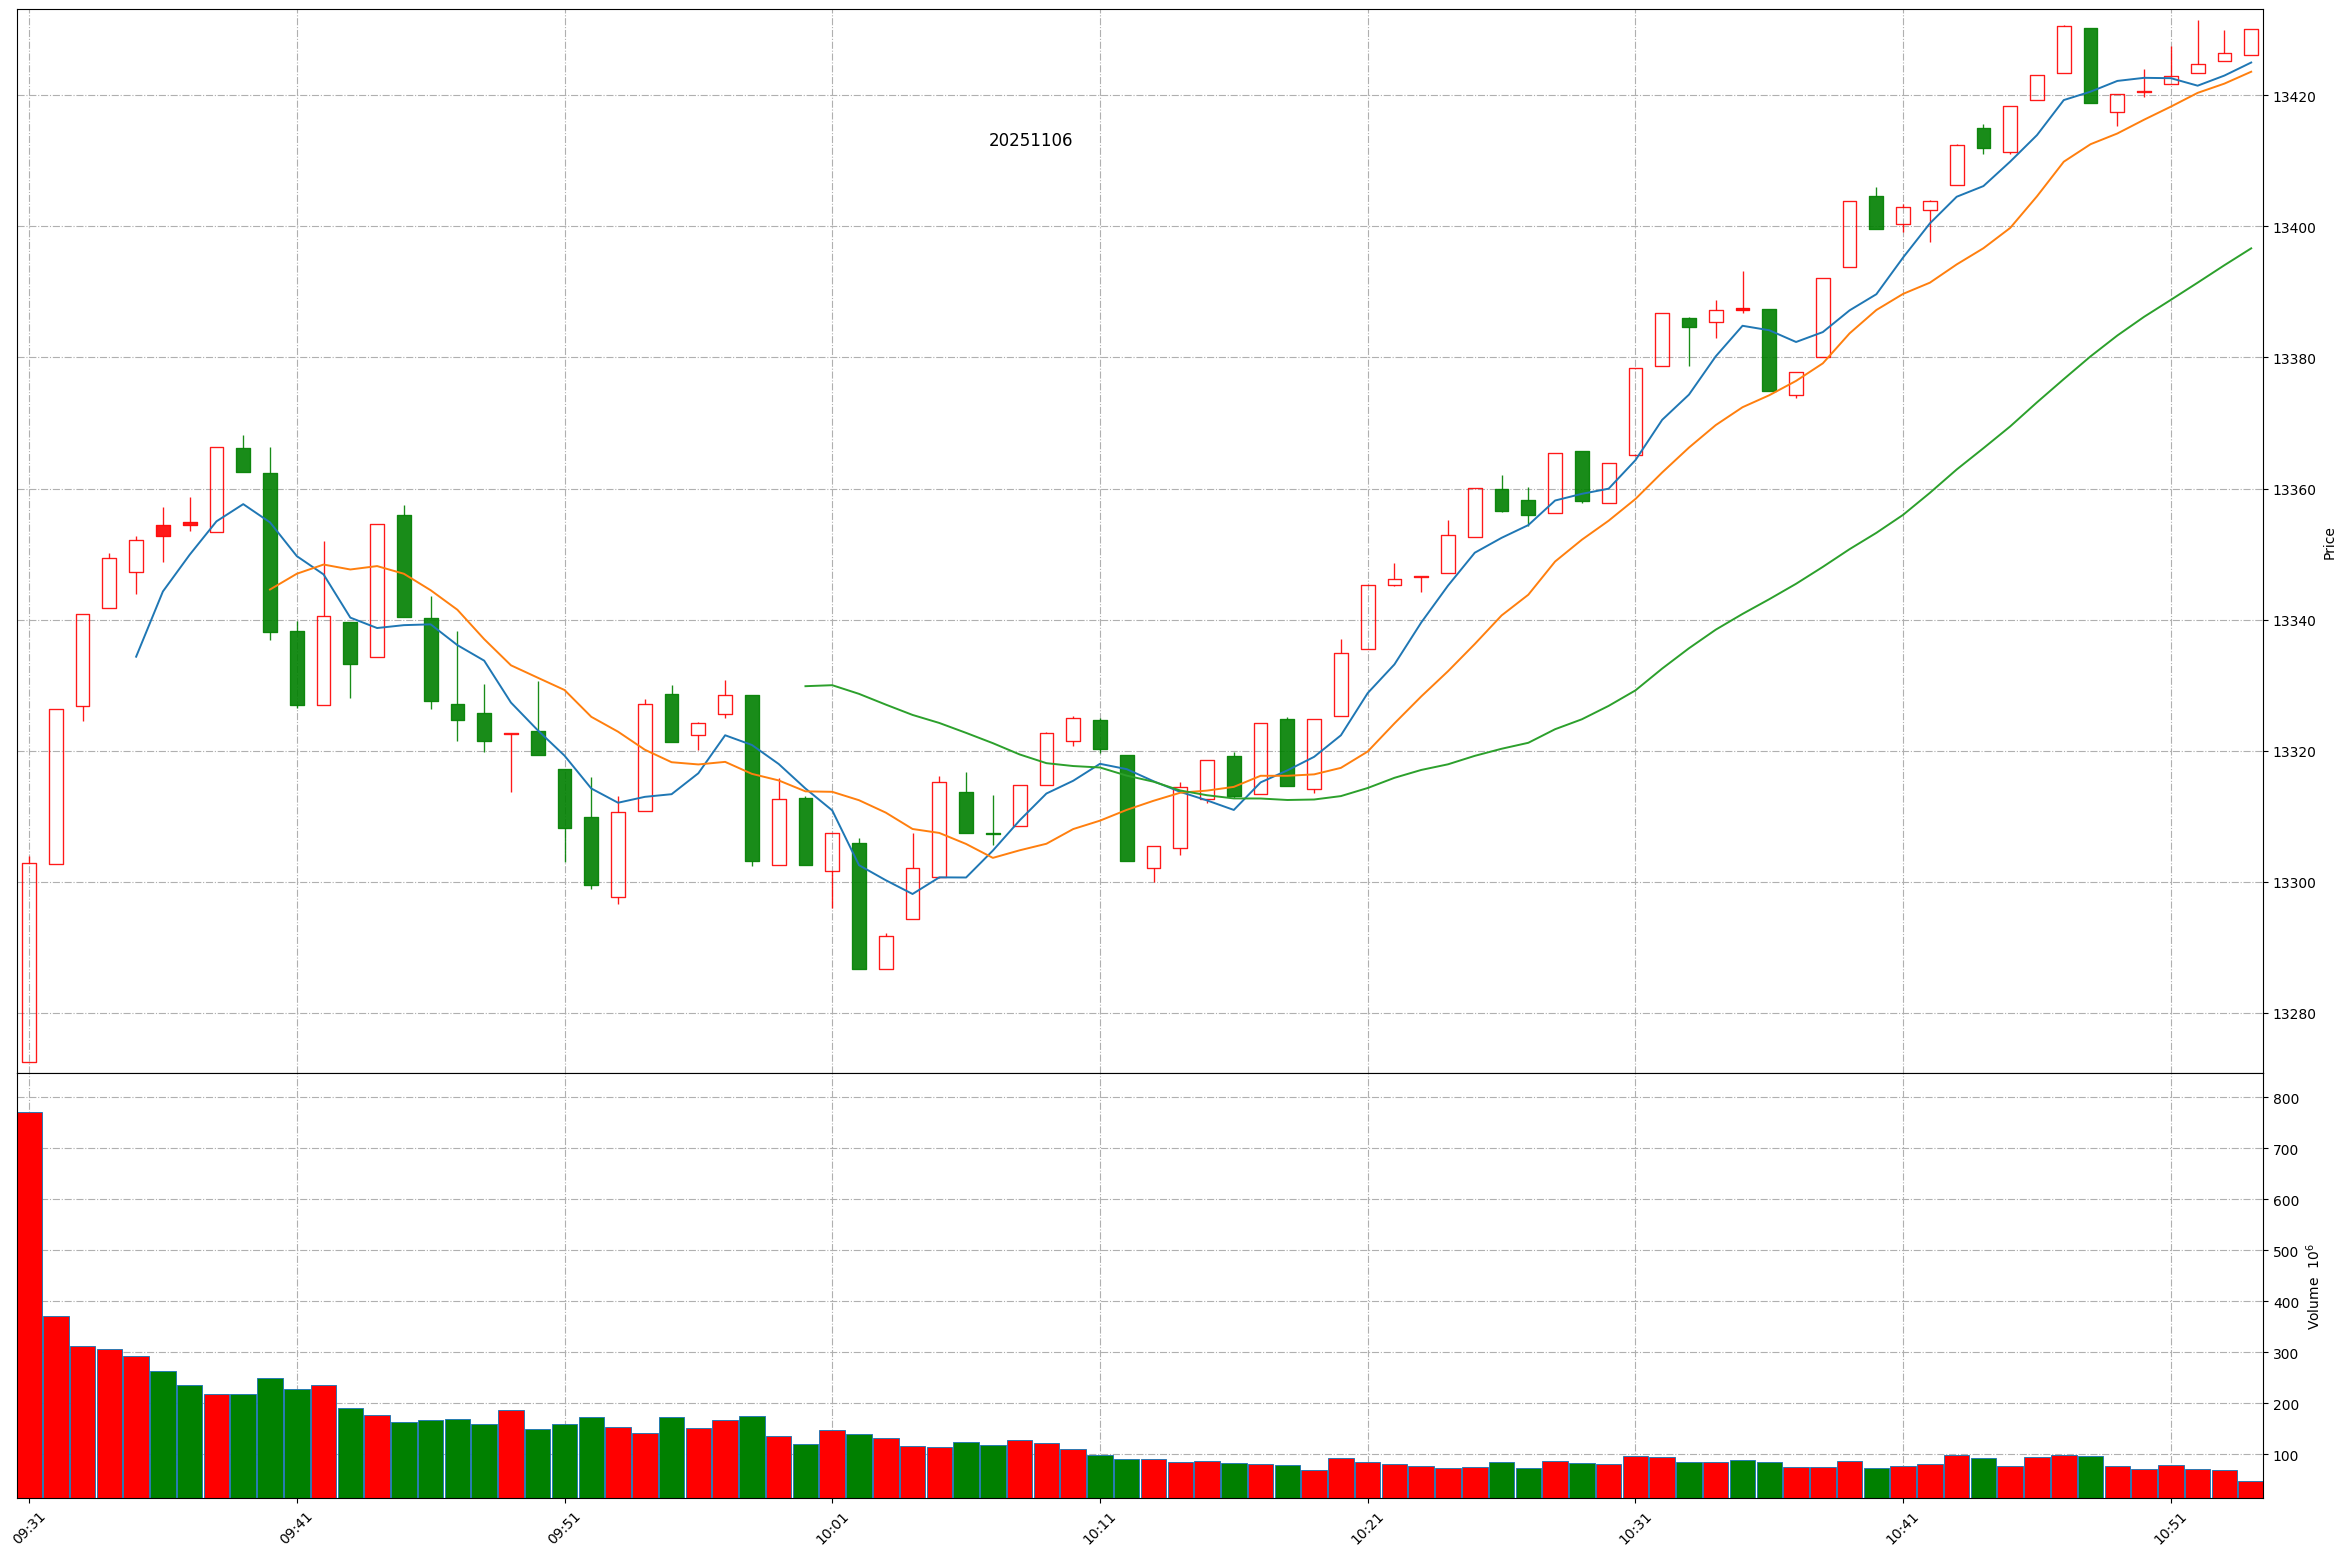
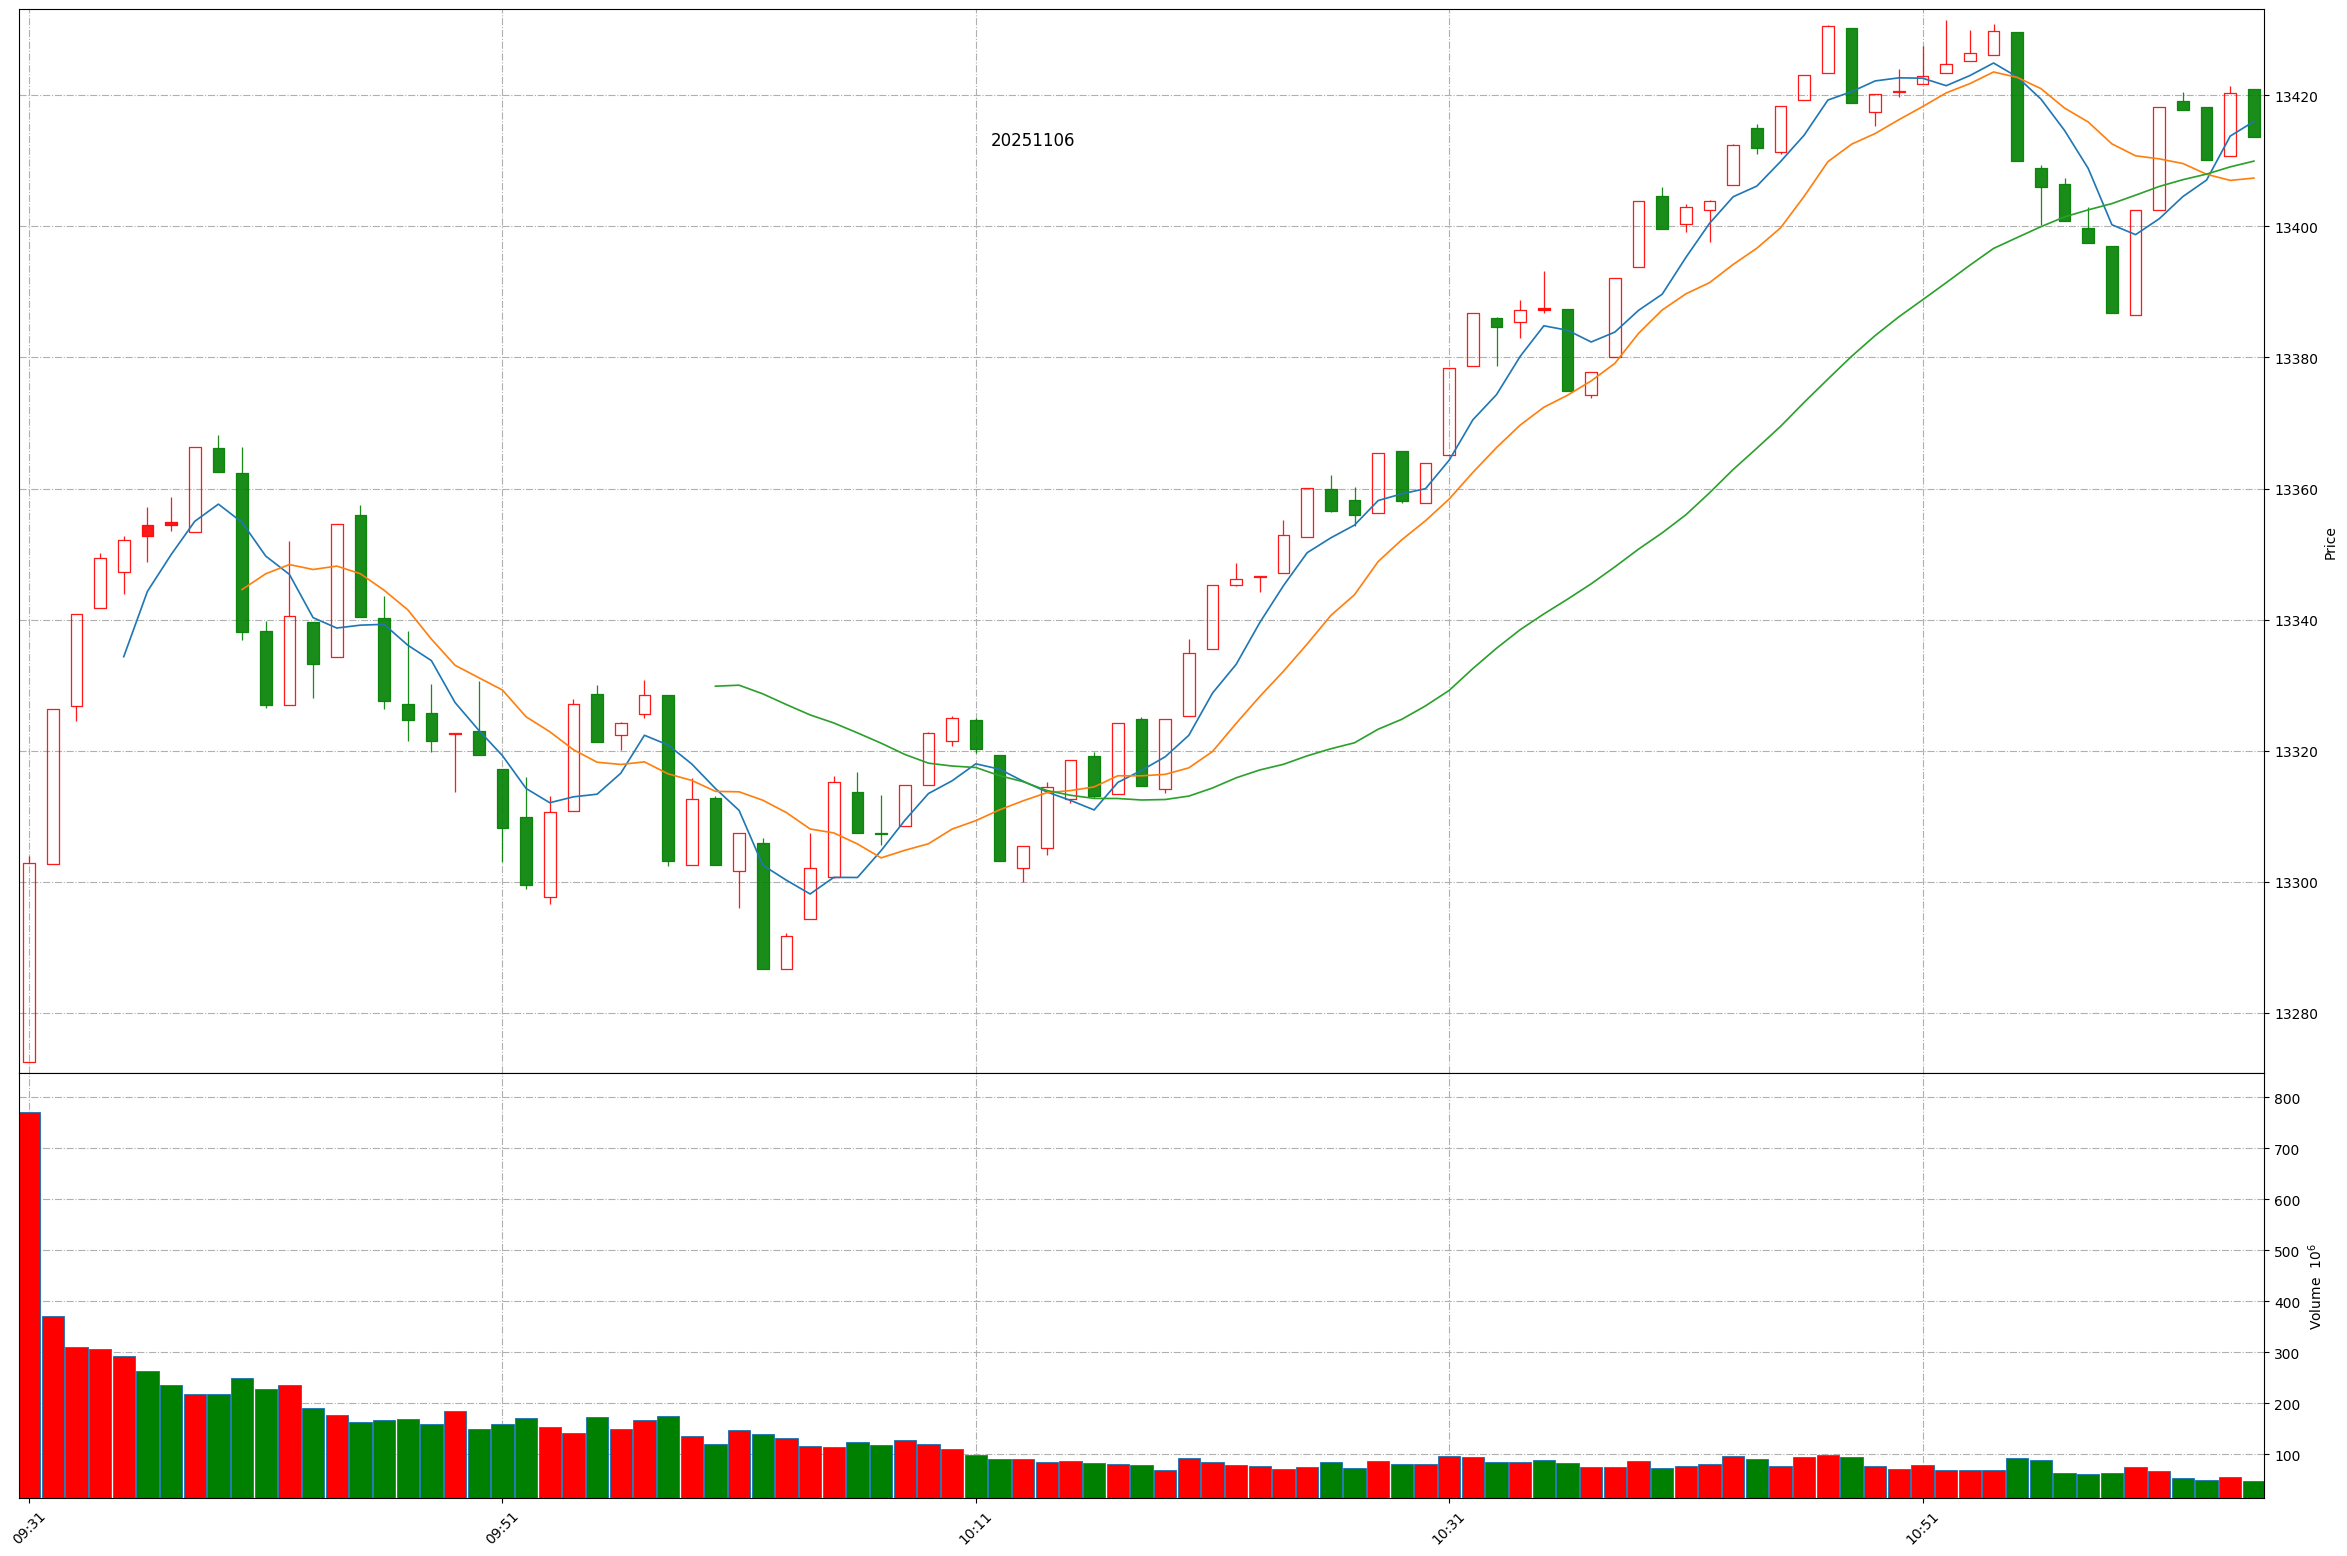
Github action update at 2025-11-06 11:05:10.

diff --git a/README.md b/README.md
@@ -1,11 +1,11 @@
 
 # Daily-A-share-market-quotes 每日 A 股指数（5min 更新）- 20251106
 
-### 上证指数 20251106 10:53
+### 上证指数 20251106 11:5
 ![](./fig/2025/11/20251106-sh000001.png)
 
-### 深证成指 20251106 10:53
+### 深证成指 20251106 11:5
 ![](./fig/2025/11/20251106-sz399001.png)
 
-### 北证50 20251106 10:53
+### 北证50 20251106 11:5
 ![](./fig/2025/11/20251106-bj899050.png)
